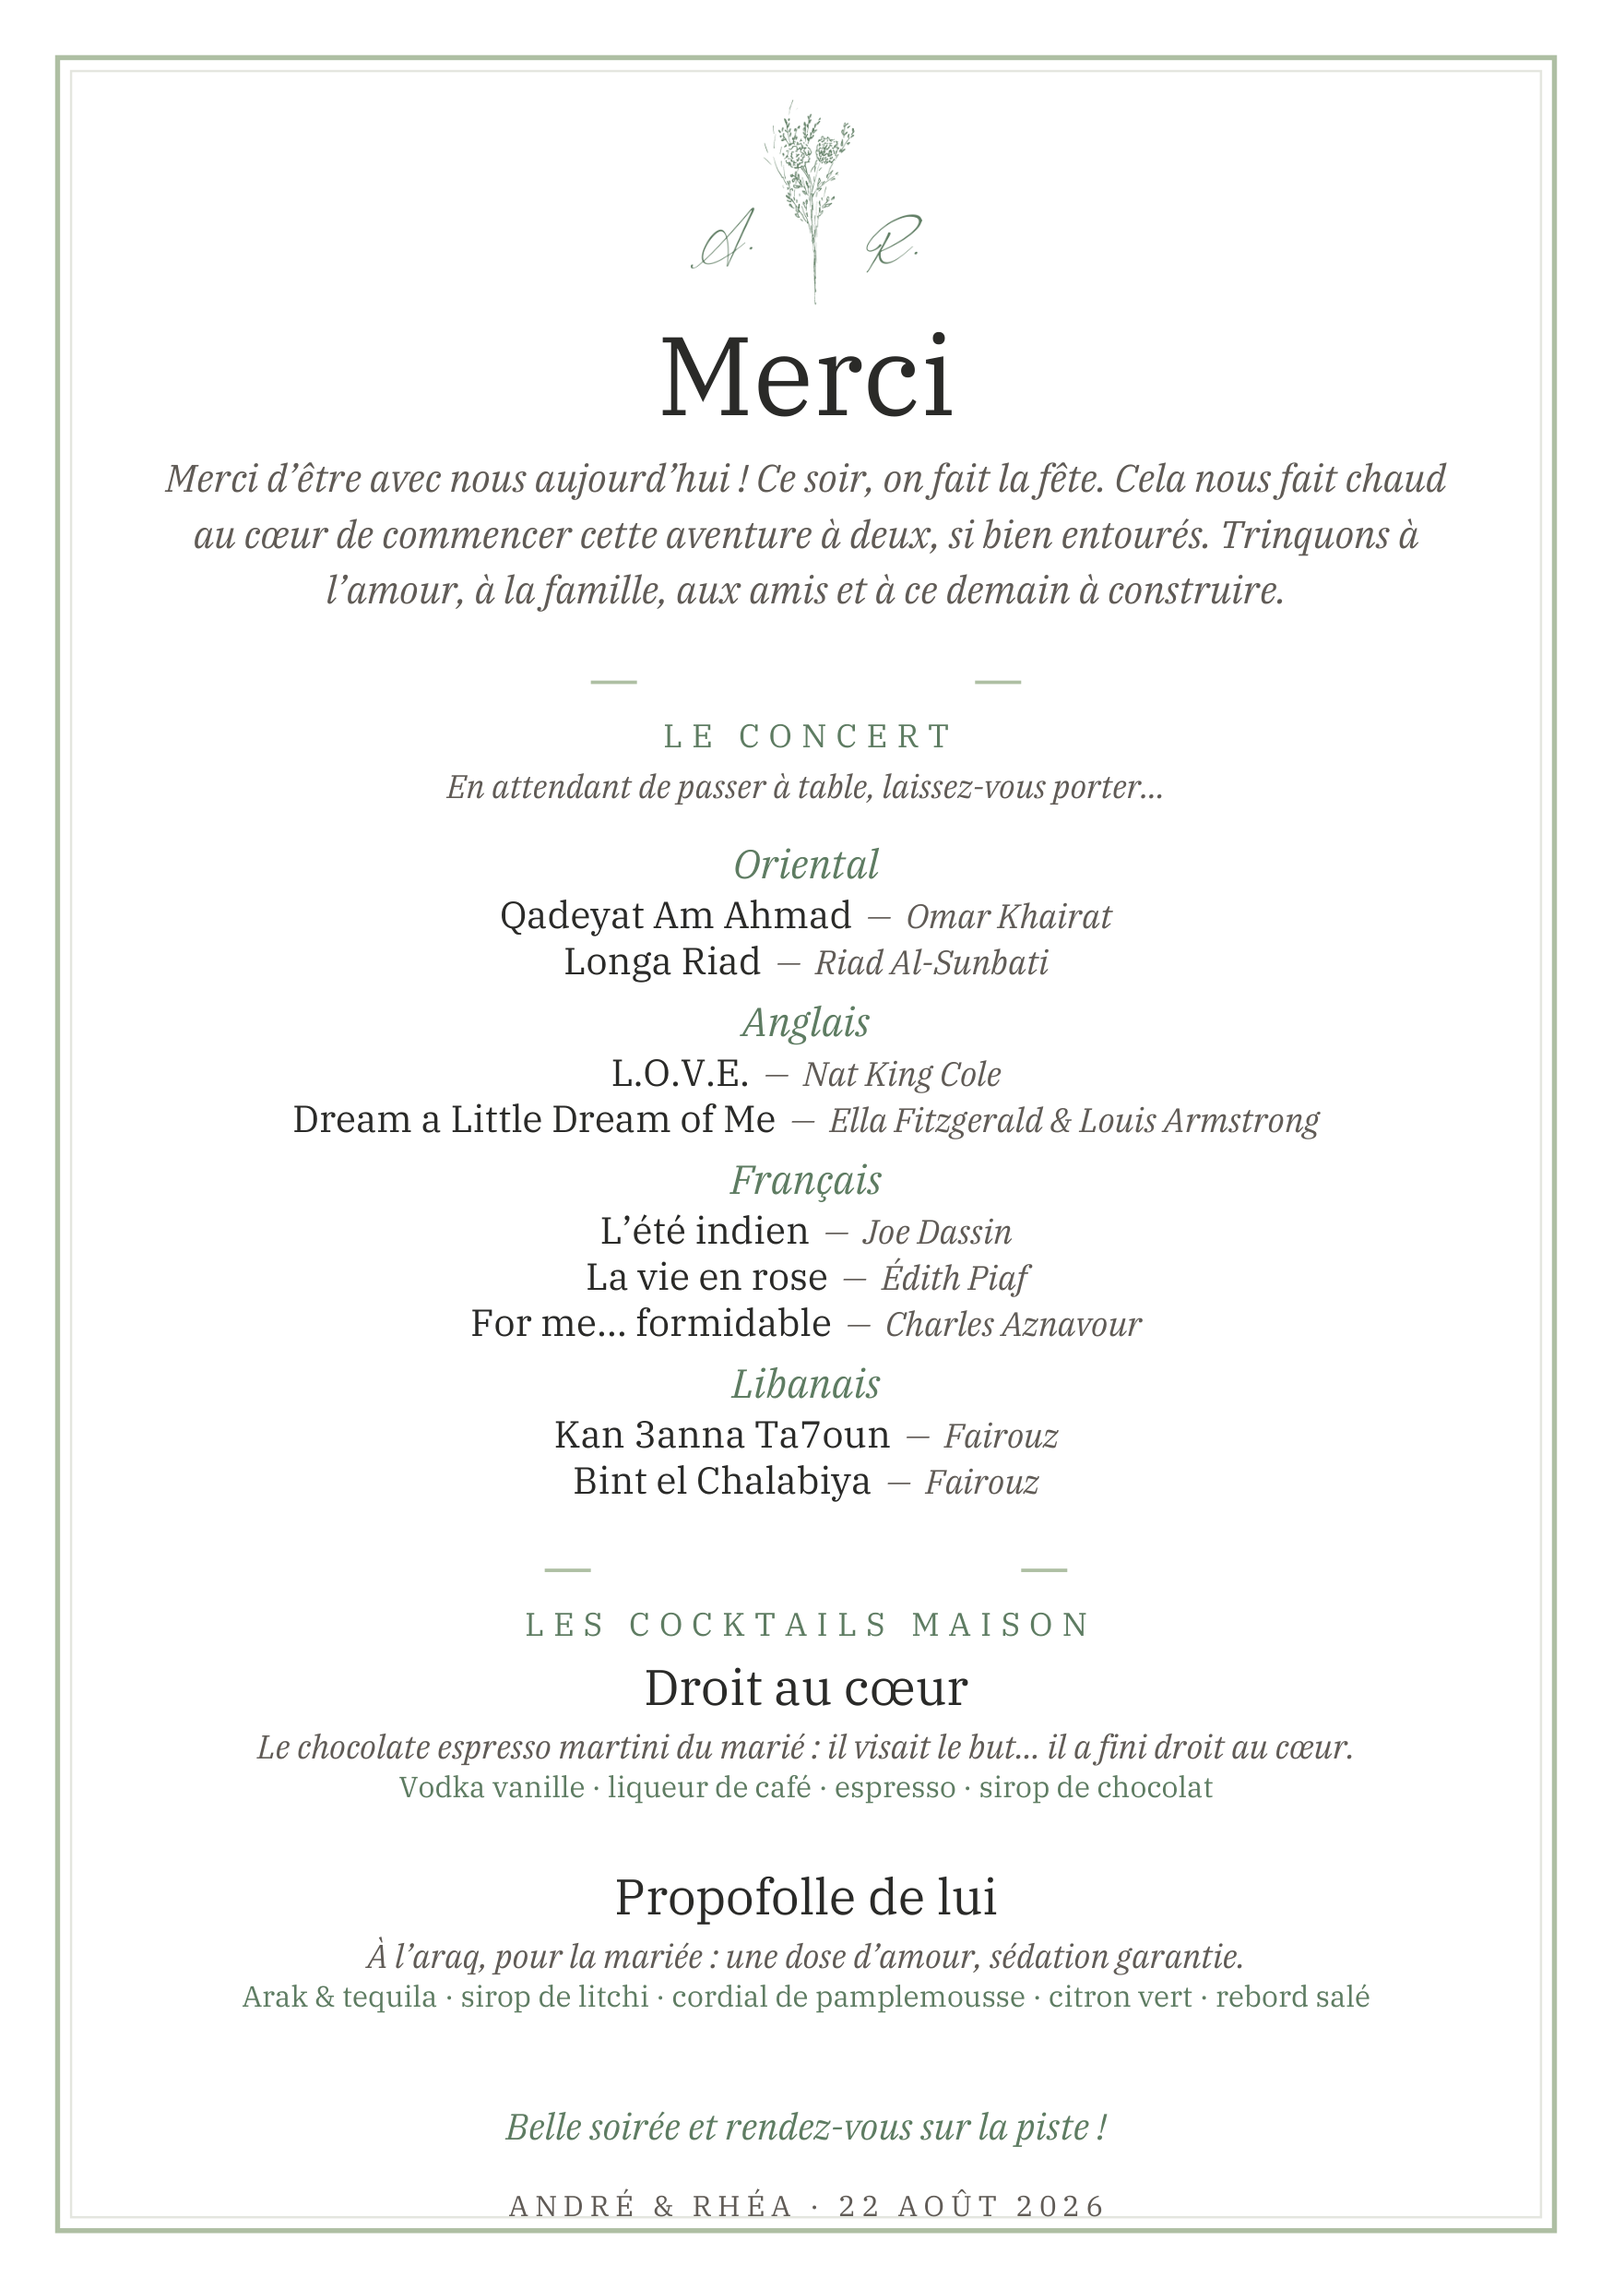
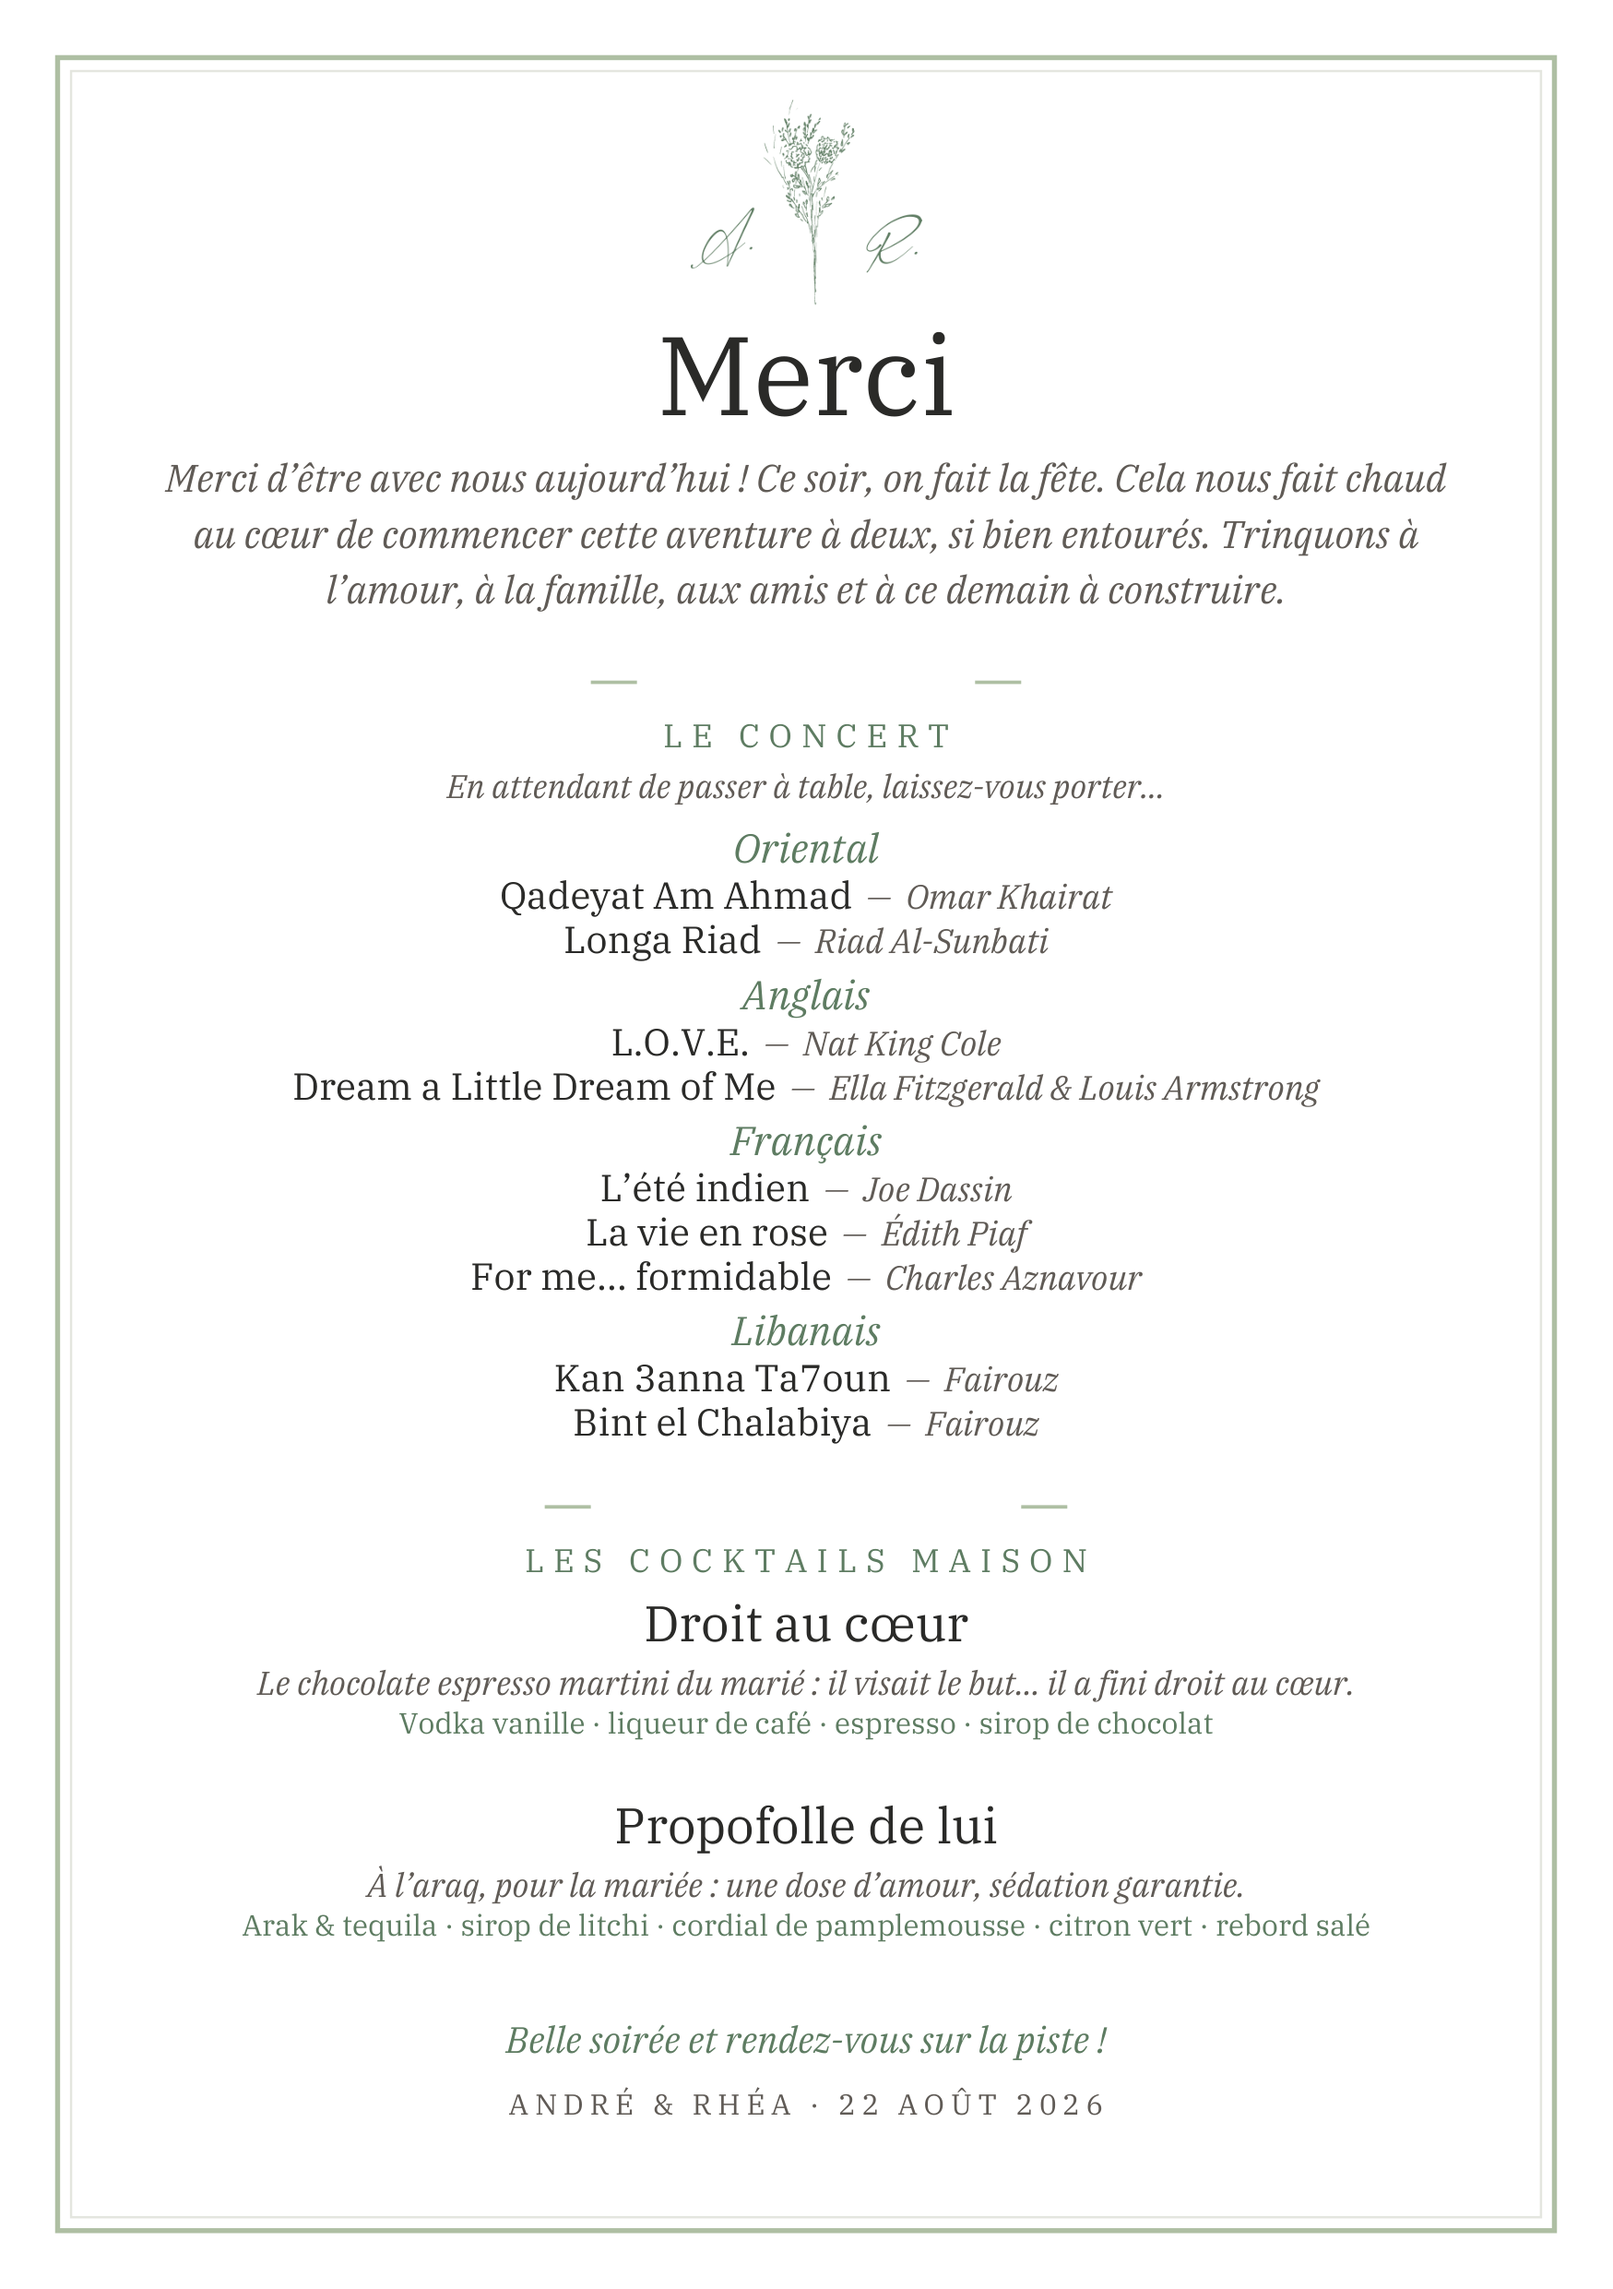
Thank-you card: tighten mid spacing to free up the bottom margin (#57)
Claude-Session: https://claude.ai/code/session_01Wi2TL2Ecb6DLgMXuheYsrH

Changed region(s): [[0.1852, 0.3724, 0.8336, 0.9311], [0.8027, 0.7138, 0.8336, 0.7759], [0.1544, 0.838, 0.1852, 0.869]]

diff --git a/assets/print/generate_thankyou.py b/assets/print/generate_thankyou.py
@@ -126,12 +126,12 @@ def build():
     # ---- concert (single column, order O/A/F/L, title — author on one line) ----
     y += 6; rule(y, 40); y += 17
     spaced("LE CONCERT", y, "Plex", 8.5, 2.4, SAGE); y += 13
-    y = block(CONCERT_INTRO, y, "PlexIt", 8.5, MUTED, 12, W-70) + 9
+    y = block(CONCERT_INTRO, y, "PlexIt", 8.5, MUTED, 12, W-70) + 5
     for lang, songs in CONCERT:
-        c.setFillColor(SAGE); c.setFont("PlexIt", 10.5); c.drawCentredString(cx, Y(y), lang); y += 13
+        c.setFillColor(SAGE); c.setFont("PlexIt", 10.5); c.drawCentredString(cx, Y(y), lang); y += 12
         for title, author in songs:
-            songline(y, title, author); y += 12
-        y += 4
+            songline(y, title, author); y += 11.5
+        y += 3
 
     # ---- cocktails ----
     y += 4; rule(y, 52); y += 17
@@ -139,10 +139,10 @@ def build():
     for name, tagline, ingr in DRINKS:
         c.setFillColor(INK); c.setFont("Plex", 13); c.drawCentredString(cx, Y(y), name); y += 14
         y = block(tagline, y, "PlexIt", 8.6, MUTED, 10, W-72) + 0
-        y = block(ingr, y, "Plex", 7.6, SAGE, 10.5, W-58) + 20
+        y = block(ingr, y, "Plex", 7.6, SAGE, 10.5, W-58) + 18
 
     # closing
-    y += 4; block("Belle soirée et rendez-vous sur la piste !", y, "PlexIt", 9.5, SAGE, 12, W-70); y += 20
+    y += 2; block("Belle soirée et rendez-vous sur la piste !", y, "PlexIt", 9.5, SAGE, 12, W-70); y += 16
     spaced("ANDRÉ & RHÉA · 22 AOÛT 2026", y, "Plex", 7.5, 1.6, MUTED)
 
     c.showPage(); c.save()
